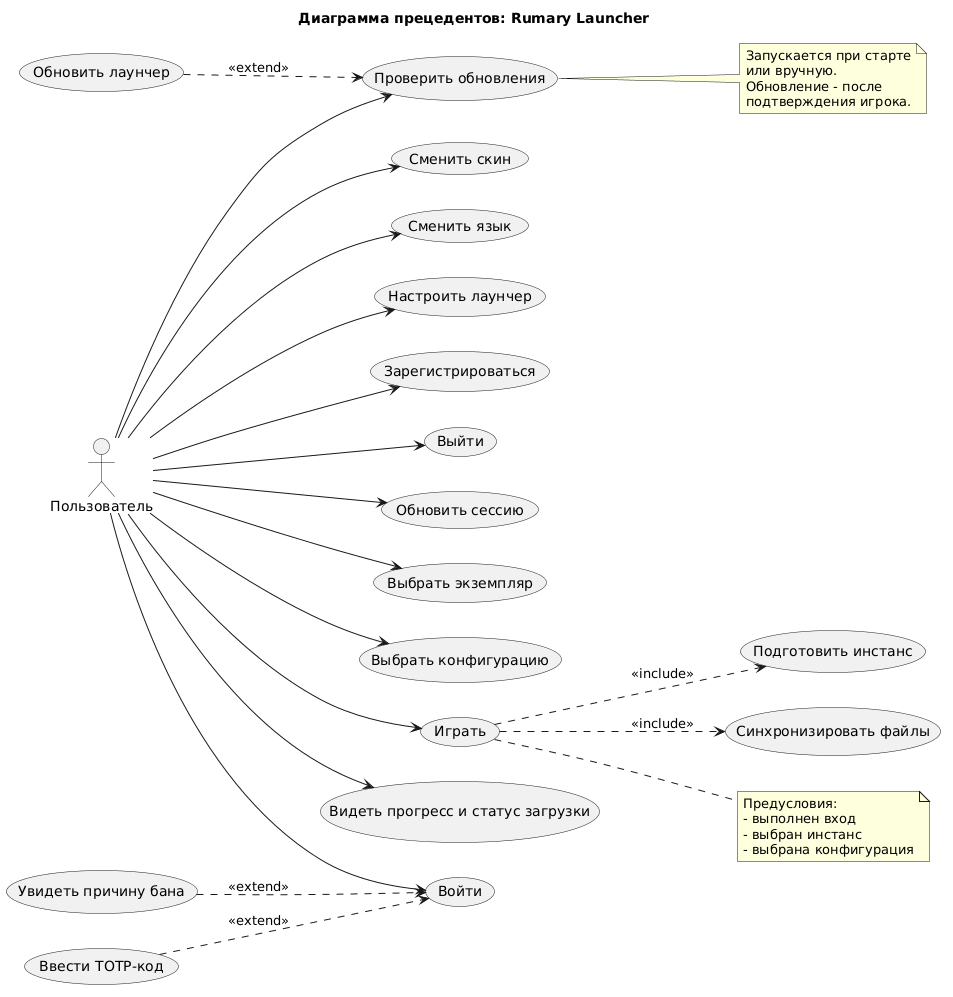
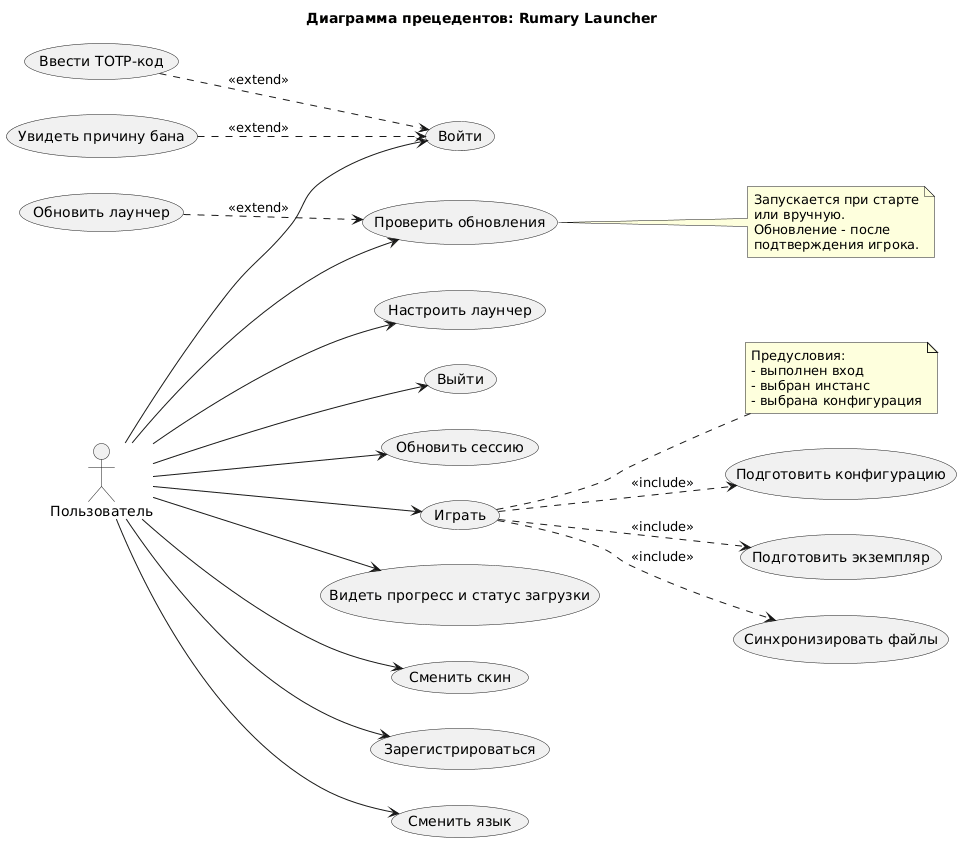
Небольшие исправления после личного ревью

diff --git a/ПИС/rumary_tz.md b/ПИС/rumary_tz.md
@@ -4,8 +4,8 @@
 - Мод (сокращение от модификации) - библиотека, которая модифицирует игру.
 - Загрузчик - специальные библиотеки для загрузки игры с модами.
 - Майнкрафт Сервер - сервер для многопользовательской игры.
-- instance (экземпляр) - это базис файлов для запуска игры. В это понятие входят: сам игра определённой версии (его библиотеки, ассеты и т.д.), загрузчик определённой версии (изначальный, fabric, forge, neoforge и другие).
-- config/configuration (конфигурация) - это дополнительные файлы для экземпляра. В это понятие входят по сути любые файлы, которые не нужны для запуска, но нужны для дальнейшей игры: моды, шейдры, текстурпаки и другие.
+- instance (экземпляр) - это определённые файлы, которые нужны для запуска игры. Это сама игра определённой версии (её библиотеки, ассеты и т.д.), загрузчик определённой версии (изначальный, fabric, forge, neoforge и другие).
+- config/configuration (конфигурация) - это дополнительные файлы для экземпляра. Файлы могу быть любыми, без которых игра запустится, но они обязательны для дальнейшего игрового опыта в контексте этой конфигурации: моды, шейдры, текстурпаки и другие.
 
 - Логин - текстовый идентификатор пользователя.
 - Никнейм - имя пользователя в игре при запуске через лаунчер.
@@ -31,14 +31,14 @@ Rumary Launcher управляет клиентскими сборками. Ад
 
 #### Прецедент Зарегистрироваться
 
-Экран: Регистрация
+Предусловие: открыт экран "Регистрация"
 
 Пользователь вводит логин, никнейм и пароль.
 
 После нажатия кнопки "Зарегистрироваться" может произойти 2 случая:
 
-- успешная регистрация → вход в систему
-- ошибка во введённых данных → аккаунт пользователю не создаётся.
+- успешная регистрация → вход в систему → переход в Главное меню
+- ошибка во введённых данных → аккаунт пользователю не создаётся и отображается причина из приведённых ниже
 
 Ошибки бывают:
 
